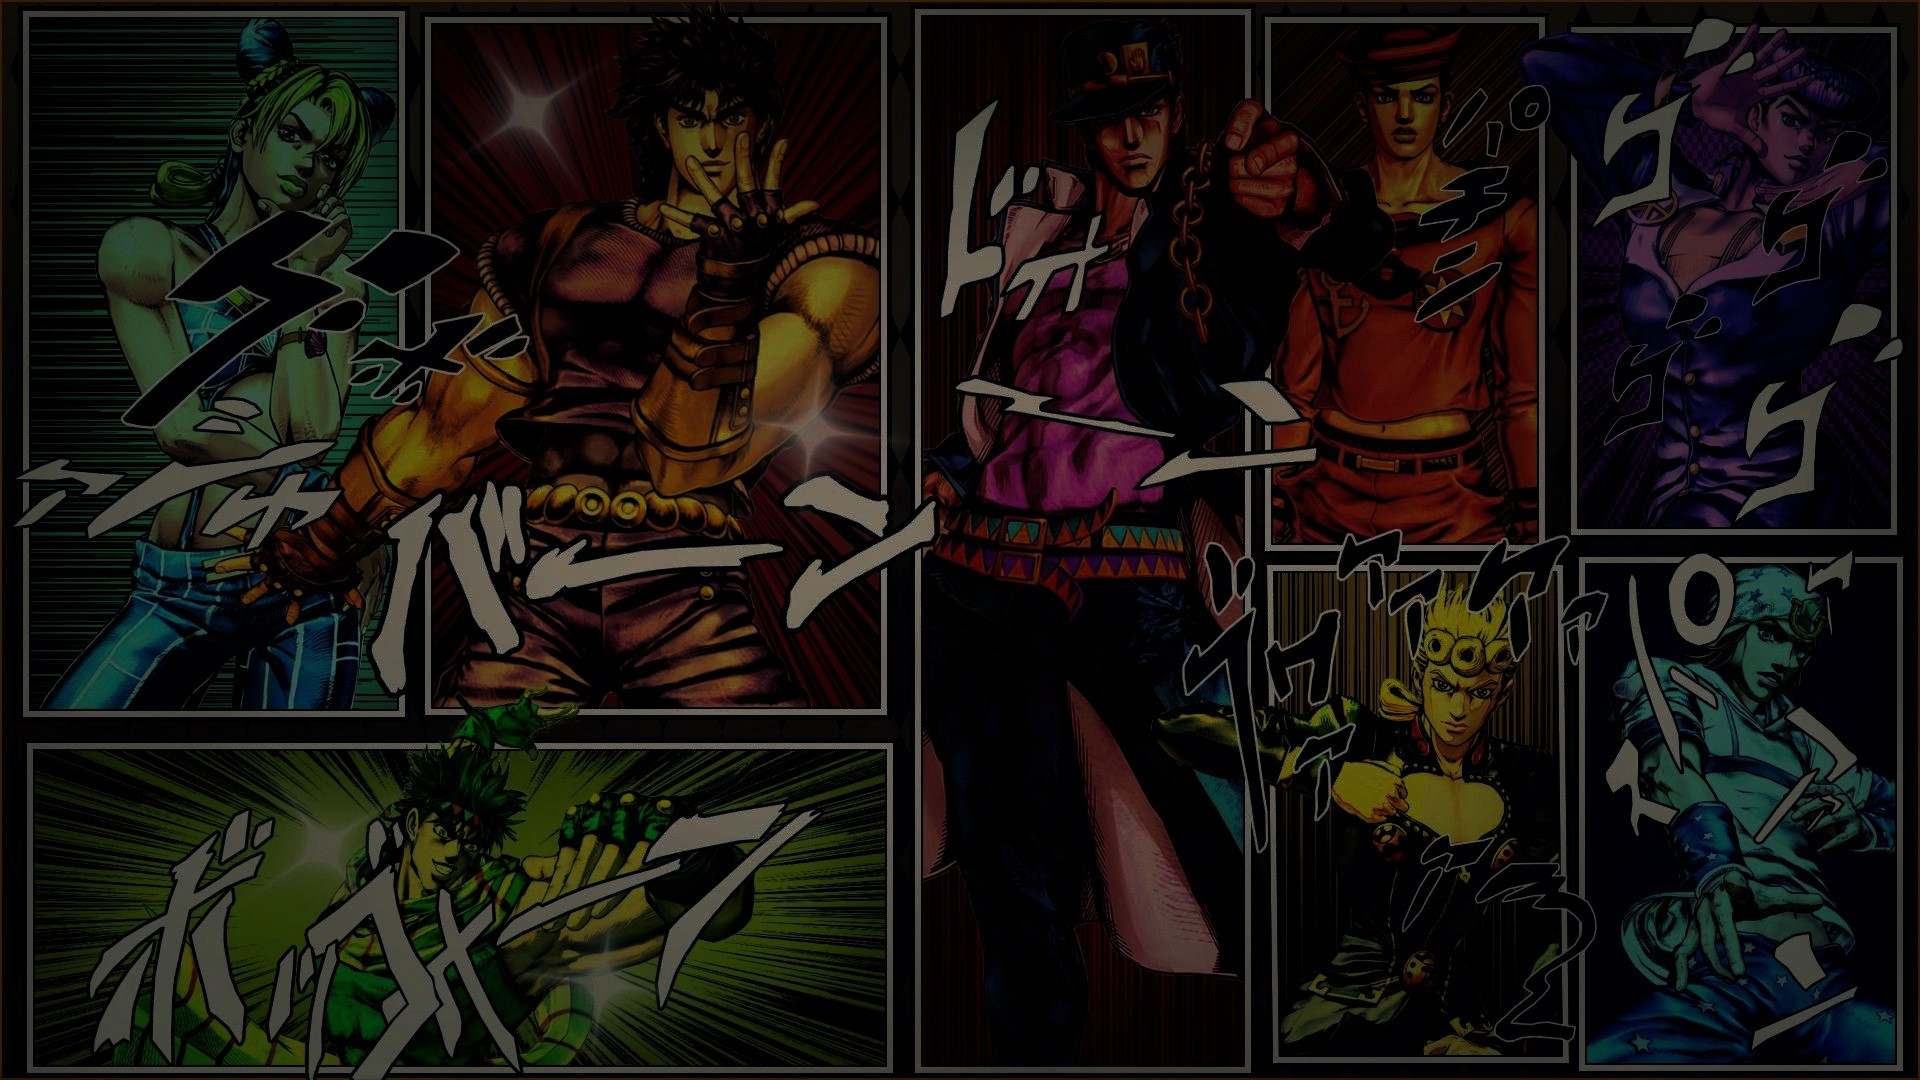
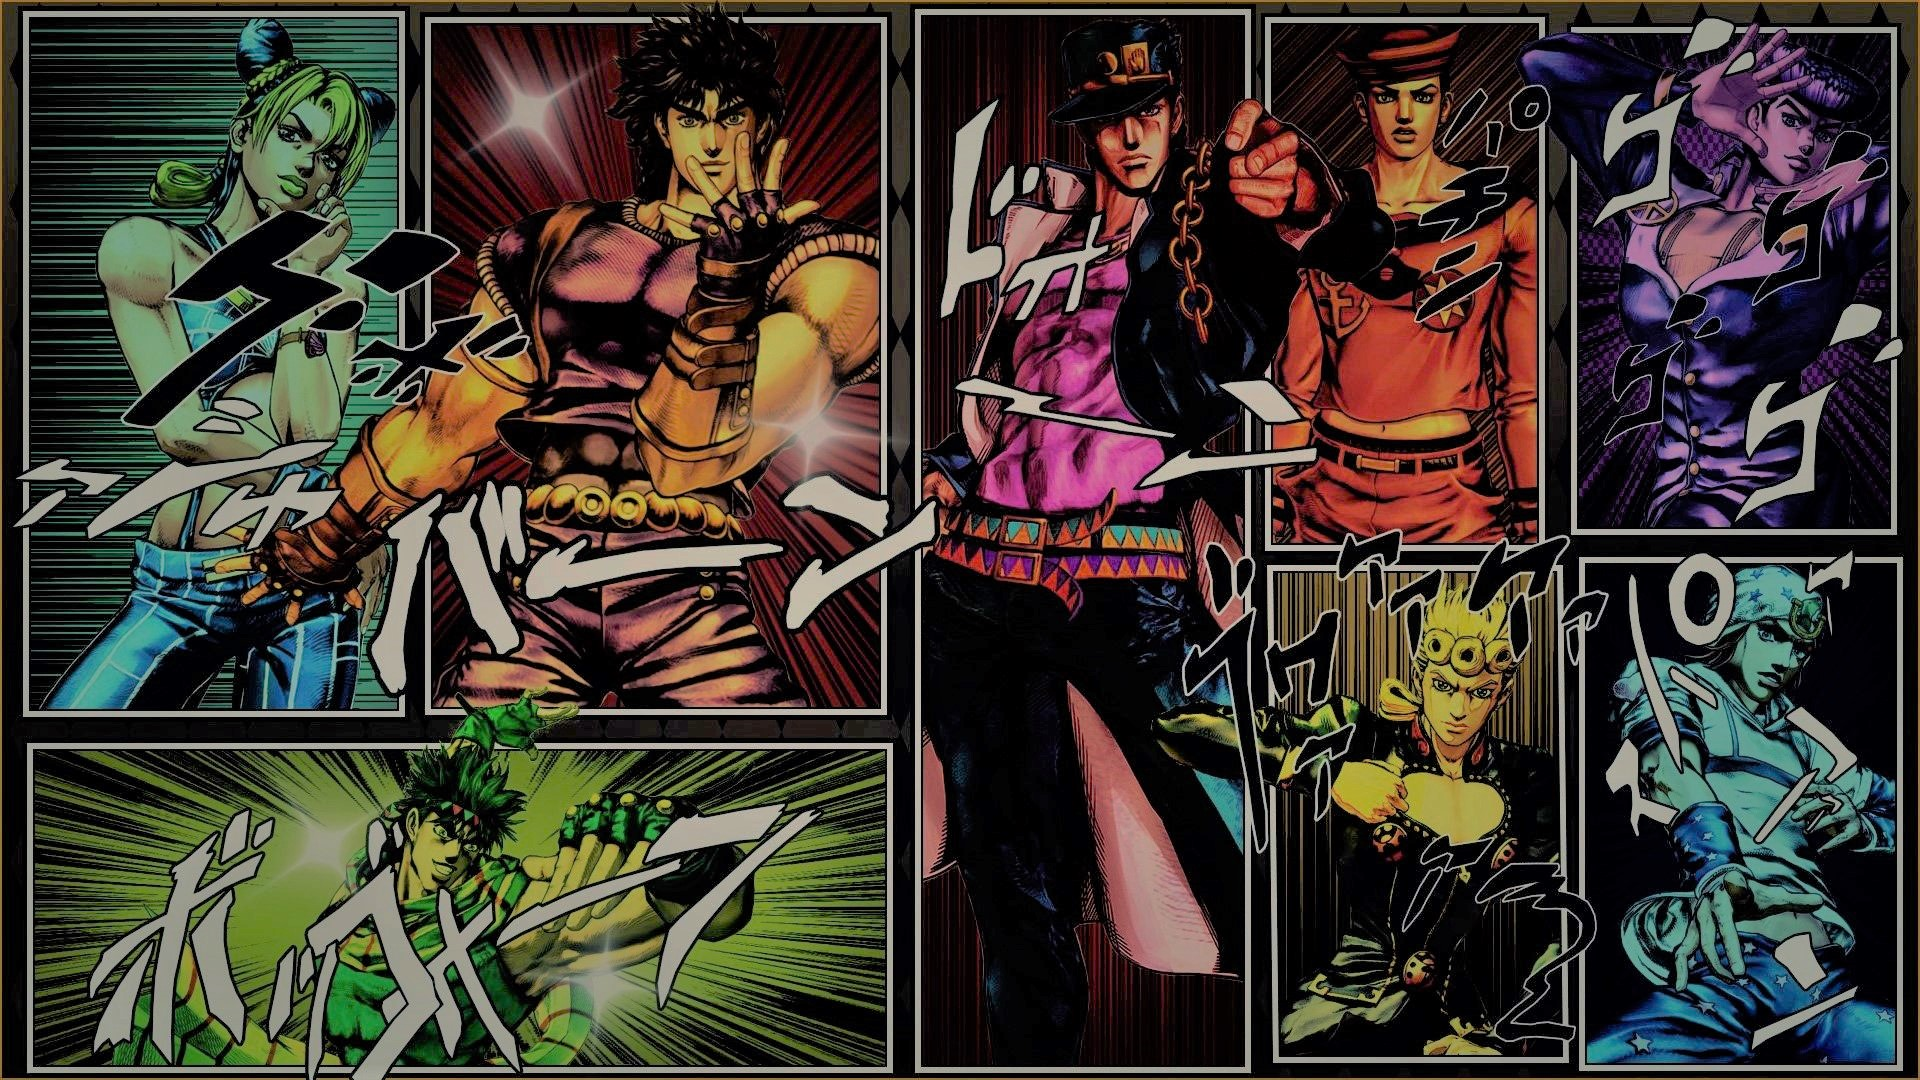
About
О мире ДжоДжо

diff --git a/about.html b/about.html
@@ -74,36 +74,36 @@
 
       <div class="row">
         <div class="col-lg-4" data-aos="fade-right">
-          <img src="assets/img/me.jpg" class="img-fluid" alt="">
+          <img src="assets/img/jojoworld.jpg" class="img-fluid" alt="">
         </div>
         <div class="col-lg-8 pt-4 pt-lg-0 content" data-aos="fade-left">
-          <h3>UI/UX &amp; Graphic Designer</h3>
-          <p class="font-italic">
-            Lorem ipsum dolor sit amet, consectetur adipiscing elit, sed do eiusmod tempor incididunt ut labore et dolore
-            magna aliqua.
+          <h3>Сеттинг</h3>
+          <p class="font-italic text-justify">
+            Вселенная JoJo’s Bizarre Adventure является отражением реального мира, в котором, однако, допустимо существование сверхъестественных сил и существ. Согласно данному сеттингу, некоторые из людей способны преобразовывать внутреннюю духовную силу в «стенды» (яп. スタンド сутандо), другая известная форма энергии — «хамон» (яп. 波紋 хамон). Каждая часть — это независимая история с разными действующими лицами. Главных героев объединяет принадлежность к общему семейному древу Джостаров, о чём свидетельствует родимое пятно в виде звезды на левом плече, а также способность применять в бою хамон или стенд. Хирохико Араки в своей франшизе каждый раз выбирает местом действия новые страны: Англию, США, Японию, Италию, Египет, Сингапур, Индию, Пакистан и Саудовскую Аравию. Многие имена персонажей взяты из названий известных рок-групп и певцов, исполняющих в стиле джаз, рок и хип-хоп. У главных героев в именах и фамилиях присутствуют слоги из слова JoJo (ДжоДжо) (яп. ジョジョ Дзёдзё).
           </p>
+          <p class="font-italic text-justify">
+            Франшиза JoJo’s Bizarre Adventure обладает рядом отличительных черт в сравнении с другими произведениями манги. Например, персонажи, начиная с четвёртой части, обладают яркой андрогинной внешностью и выделяются подробной прорисовкой отдельных частей тела и лица. Также герои при столкновении с противниками часто принимают необычные положения тела, получившие название «позы „Jojo“» и широко известные в современной японской культуре. Помимо этого, для сцен из манги JoJo свойственно частое использование ономатопеи — звукоподражающих символов катаканы, которые применяются с целью передачи определённой эмоциональной атмосферы, или «ауры», исходящей от персонажа.
+          </p>
+          <h3>Сезоны</h3>
           <div class="row">
             <div class="col-lg-6">
               <ul>
-                <li><i class="icofont-rounded-right"></i> <strong>Birthday:</strong> 1 May 1995</li>
-                <li><i class="icofont-rounded-right"></i> <strong>Website:</strong> www.example.com</li>
-                <li><i class="icofont-rounded-right"></i> <strong>Phone:</strong> +123 456 7890</li>
-                <li><i class="icofont-rounded-right"></i> <strong>City:</strong> City : New York, USA</li>
+                <li><i class="icofont-rounded-right" style="color: rgb(179, 0, 179)"></i> <strong>Сезон 1.</strong> Призрачная кровь</li>
+                <li><i class="icofont-rounded-right" style="color: rgb(51, 204, 51)"></i> <strong>Сезон 2.</strong> Боевое стремление</li>
+                <li><i class="icofont-rounded-right" style="color: rgb(51, 153, 255)"></i> <strong>Сезон 3.</strong> Крестоносцы звёздной пыли</li>
+                <li><i class="icofont-rounded-right" style="color: rgb(255, 255, 0)"></i> <strong>Сезон 4.</strong> Несокрушимый алмаз</li>
               </ul>
             </div>
             <div class="col-lg-6">
               <ul>
-                <li><i class="icofont-rounded-right"></i> <strong>Age:</strong> 30</li>
-                <li><i class="icofont-rounded-right"></i> <strong>Degree:</strong> Master</li>
-                <li><i class="icofont-rounded-right"></i> <strong>PhEmailone:</strong> email@example.com</li>
-                <li><i class="icofont-rounded-right"></i> <strong>Freelance:</strong> Available</li>
+                <li><i class="icofont-rounded-right" style="color: rgb(255, 51, 0)"></i> <strong>Сезон 5.</strong> Золотой ветер</li>
+                <li><i class="icofont-rounded-right" style="color: rgb(0, 51, 204)"></i> <strong>Сезон 6.</strong> Каменный океан</li>
+                <li><i class="icofont-rounded-right" style="color: rgb(255, 102, 255)"></i> <strong>Сезон 7.</strong> Гонка «Стальной Шар»</li>
+                <li><i class="icofont-rounded-right" style="color: rgb(255, 153, 0)"></i> <strong>Сезон 8.</strong> ДжоДжолион</li>
               </ul>
             </div>
           </div>
-          <p>
-            Officiis eligendi itaque labore et dolorum mollitia officiis optio vero. Quisquam sunt adipisci omnis et ut. Nulla accusantium dolor incidunt officia tempore. Et eius omnis.
-            Cupiditate ut dicta maxime officiis quidem quia. Sed et consectetur qui quia repellendus itaque neque. Aliquid amet quidem ut quaerat cupiditate. Ab et eum qui repellendus omnis culpa magni laudantium dolores.
-          </p>
+
         </div>
       </div>
 
@@ -116,254 +116,39 @@
 
         <div class="col-lg-3 col-md-6">
           <div class="count-box">
-            <i class="icofont-simple-smile"></i>
-            <span data-toggle="counter-up">232</span>
-            <p>Happy Clients</p>
+            <i class="icofont icofont-star"></i>
+            <span data-toggle="counter-up">8</span>
+            <p>Количество арок</p>
           </div>
         </div>
 
         <div class="col-lg-3 col-md-6 mt-5 mt-md-0">
           <div class="count-box">
-            <i class="icofont-document-folder"></i>
-            <span data-toggle="counter-up">521</span>
-            <p>Projects</p>
+            <i class="icofont icofont-book-alt"></i>
+            <span data-toggle="counter-up">173</span>
+            <p>Количество глав</p>
           </div>
         </div>
 
         <div class="col-lg-3 col-md-6 mt-5 mt-lg-0">
           <div class="count-box">
-            <i class="icofont-live-support"></i>
-            <span data-toggle="counter-up">1,463</span>
-            <p>Hours Of Support</p>
+            <i class="icofont icofont-dna"></i>
+            <span data-toggle="counter-up">3</span>
+            <p>Количество родинок у Дио</p>
           </div>
         </div>
 
         <div class="col-lg-3 col-md-6 mt-5 mt-lg-0">
           <div class="count-box">
-            <i class="icofont-users-alt-5"></i>
-            <span data-toggle="counter-up">15</span>
-            <p>Hard Workers</p>
+            <i class="icofont icofont-penalty-card"></i>
+            <span data-toggle="counter-up">165</span>
+            <p>Количество стендов</p>
           </div>
         </div>
 
       </div>
 
     </div><!-- End Counts -->
-
-    <!-- ======= Skills  ======= -->
-    <div class="skills container">
-
-      <div class="section-title">
-        <h2>Skills</h2>
-      </div>
-
-      <div class="row skills-content">
-
-        <div class="col-lg-6">
-
-          <div class="progress">
-            <span class="skill">HTML <i class="val">100%</i></span>
-            <div class="progress-bar-wrap">
-              <div class="progress-bar" role="progressbar" aria-valuenow="100" aria-valuemin="0" aria-valuemax="100"></div>
-            </div>
-          </div>
-
-          <div class="progress">
-            <span class="skill">CSS <i class="val">90%</i></span>
-            <div class="progress-bar-wrap">
-              <div class="progress-bar" role="progressbar" aria-valuenow="90" aria-valuemin="0" aria-valuemax="100"></div>
-            </div>
-          </div>
-
-          <div class="progress">
-            <span class="skill">JavaScript <i class="val">75%</i></span>
-            <div class="progress-bar-wrap">
-              <div class="progress-bar" role="progressbar" aria-valuenow="75" aria-valuemin="0" aria-valuemax="100"></div>
-            </div>
-          </div>
-
-        </div>
-
-        <div class="col-lg-6">
-
-          <div class="progress">
-            <span class="skill">PHP <i class="val">80%</i></span>
-            <div class="progress-bar-wrap">
-              <div class="progress-bar" role="progressbar" aria-valuenow="80" aria-valuemin="0" aria-valuemax="100"></div>
-            </div>
-          </div>
-
-          <div class="progress">
-            <span class="skill">WordPress/CMS <i class="val">90%</i></span>
-            <div class="progress-bar-wrap">
-              <div class="progress-bar" role="progressbar" aria-valuenow="90" aria-valuemin="0" aria-valuemax="100"></div>
-            </div>
-          </div>
-
-          <div class="progress">
-            <span class="skill">Photoshop <i class="val">55%</i></span>
-            <div class="progress-bar-wrap">
-              <div class="progress-bar" role="progressbar" aria-valuenow="55" aria-valuemin="0" aria-valuemax="100"></div>
-            </div>
-          </div>
-
-        </div>
-
-      </div>
-
-    </div><!-- End Skills -->
-
-    <!-- ======= Interests ======= -->
-    <div class="interests container">
-
-      <div class="section-title">
-        <h2>Interests</h2>
-      </div>
-
-      <div class="row">
-        <div class="col-lg-3 col-md-4">
-          <div class="icon-box">
-            <i class="ri-store-line" style="color: #ffbb2c;"></i>
-            <h3>Lorem Ipsum</h3>
-          </div>
-        </div>
-        <div class="col-lg-3 col-md-4 mt-4 mt-md-0">
-          <div class="icon-box">
-            <i class="ri-bar-chart-box-line" style="color: #5578ff;"></i>
-            <h3>Dolor Sitema</h3>
-          </div>
-        </div>
-        <div class="col-lg-3 col-md-4 mt-4 mt-md-0">
-          <div class="icon-box">
-            <i class="ri-calendar-todo-line" style="color: #e80368;"></i>
-            <h3>Sed perspiciatis</h3>
-          </div>
-        </div>
-        <div class="col-lg-3 col-md-4 mt-4 mt-lg-0">
-          <div class="icon-box">
-            <i class="ri-paint-brush-line" style="color: #e361ff;"></i>
-            <h3>Magni Dolores</h3>
-          </div>
-        </div>
-        <div class="col-lg-3 col-md-4 mt-4">
-          <div class="icon-box">
-            <i class="ri-database-2-line" style="color: #47aeff;"></i>
-            <h3>Nemo Enim</h3>
-          </div>
-        </div>
-        <div class="col-lg-3 col-md-4 mt-4">
-          <div class="icon-box">
-            <i class="ri-gradienter-line" style="color: #ffa76e;"></i>
-            <h3>Eiusmod Tempor</h3>
-          </div>
-        </div>
-        <div class="col-lg-3 col-md-4 mt-4">
-          <div class="icon-box">
-            <i class="ri-file-list-3-line" style="color: #11dbcf;"></i>
-            <h3>Midela Teren</h3>
-          </div>
-        </div>
-        <div class="col-lg-3 col-md-4 mt-4">
-          <div class="icon-box">
-            <i class="ri-price-tag-2-line" style="color: #4233ff;"></i>
-            <h3>Pira Neve</h3>
-          </div>
-        </div>
-        <div class="col-lg-3 col-md-4 mt-4">
-          <div class="icon-box">
-            <i class="ri-anchor-line" style="color: #b2904f;"></i>
-            <h3>Dirada Pack</h3>
-          </div>
-        </div>
-        <div class="col-lg-3 col-md-4 mt-4">
-          <div class="icon-box">
-            <i class="ri-disc-line" style="color: #b20969;"></i>
-            <h3>Moton Ideal</h3>
-          </div>
-        </div>
-        <div class="col-lg-3 col-md-4 mt-4">
-          <div class="icon-box">
-            <i class="ri-base-station-line" style="color: #ff5828;"></i>
-            <h3>Verdo Park</h3>
-          </div>
-        </div>
-        <div class="col-lg-3 col-md-4 mt-4">
-          <div class="icon-box">
-            <i class="ri-fingerprint-line" style="color: #29cc61;"></i>
-            <h3>Flavor Nivelanda</h3>
-          </div>
-        </div>
-      </div>
-
-    </div><!-- End Interests -->
-
-    <!-- ======= Testimonials ======= -->
-    <div class="testimonials container">
-
-      <div class="section-title">
-        <h2>Testimonials</h2>
-      </div>
-
-      <div class="owl-carousel testimonials-carousel">
-
-        <div class="testimonial-item">
-          <p>
-            <i class="bx bxs-quote-alt-left quote-icon-left"></i>
-            Proin iaculis purus consequat sem cure digni ssim donec porttitora entum suscipit rhoncus. Accusantium quam, ultricies eget id, aliquam eget nibh et. Maecen aliquam, risus at semper.
-            <i class="bx bxs-quote-alt-right quote-icon-right"></i>
-          </p>
-          <img src="assets/img/testimonials/testimonials-1.jpg" class="testimonial-img" alt="">
-          <h3>Saul Goodman</h3>
-          <h4>Ceo &amp; Founder</h4>
-        </div>
-
-        <div class="testimonial-item">
-          <p>
-            <i class="bx bxs-quote-alt-left quote-icon-left"></i>
-            Export tempor illum tamen malis malis eram quae irure esse labore quem cillum quid cillum eram malis quorum velit fore eram velit sunt aliqua noster fugiat irure amet legam anim culpa.
-            <i class="bx bxs-quote-alt-right quote-icon-right"></i>
-          </p>
-          <img src="assets/img/testimonials/testimonials-2.jpg" class="testimonial-img" alt="">
-          <h3>Sara Wilsson</h3>
-          <h4>Designer</h4>
-        </div>
-
-        <div class="testimonial-item">
-          <p>
-            <i class="bx bxs-quote-alt-left quote-icon-left"></i>
-            Enim nisi quem export duis labore cillum quae magna enim sint quorum nulla quem veniam duis minim tempor labore quem eram duis noster aute amet eram fore quis sint minim.
-            <i class="bx bxs-quote-alt-right quote-icon-right"></i>
-          </p>
-          <img src="assets/img/testimonials/testimonials-3.jpg" class="testimonial-img" alt="">
-          <h3>Jena Karlis</h3>
-          <h4>Store Owner</h4>
-        </div>
-
-        <div class="testimonial-item">
-          <p>
-            <i class="bx bxs-quote-alt-left quote-icon-left"></i>
-            Fugiat enim eram quae cillum dolore dolor amet nulla culpa multos export minim fugiat minim velit minim dolor enim duis veniam ipsum anim magna sunt elit fore quem dolore labore illum veniam.
-            <i class="bx bxs-quote-alt-right quote-icon-right"></i>
-          </p>
-          <img src="assets/img/testimonials/testimonials-4.jpg" class="testimonial-img" alt="">
-          <h3>Matt Brandon</h3>
-          <h4>Freelancer</h4>
-        </div>
-
-        <div class="testimonial-item">
-          <p>
-            <i class="bx bxs-quote-alt-left quote-icon-left"></i>
-            Quis quorum aliqua sint quem legam fore sunt eram irure aliqua veniam tempor noster veniam enim culpa labore duis sunt culpa nulla illum cillum fugiat legam esse veniam culpa fore nisi cillum quid.
-            <i class="bx bxs-quote-alt-right quote-icon-right"></i>
-          </p>
-          <img src="assets/img/testimonials/testimonials-5.jpg" class="testimonial-img" alt="">
-          <h3>John Larson</h3>
-          <h4>Entrepreneur</h4>
-        </div>
-
-      </div>
-
-    </div><!-- End Testimonials  -->
 
   </section><!-- End About Section -->
 

diff --git a/assets/css/get-started-style.css b/assets/css/get-started-style.css
@@ -271,7 +271,7 @@ h1, h2, h3, h4, h5, h6 {
   left: 0;
   top: 0;
   right: 0;
-  background: rgba(0, 0, 0, 0.9);
+  background: rgba(75, 0, 130, 0.9);
 }
 
 #header.header-top .social-links, #header.header-top h2 {
@@ -323,7 +323,7 @@ section.section-show {
 }
 
 section .container {
-  background: rgba(0, 0, 0, 0.9);
+  background: rgba(128, 0, 128, 0.8);
   padding: 30px;
 }
 
